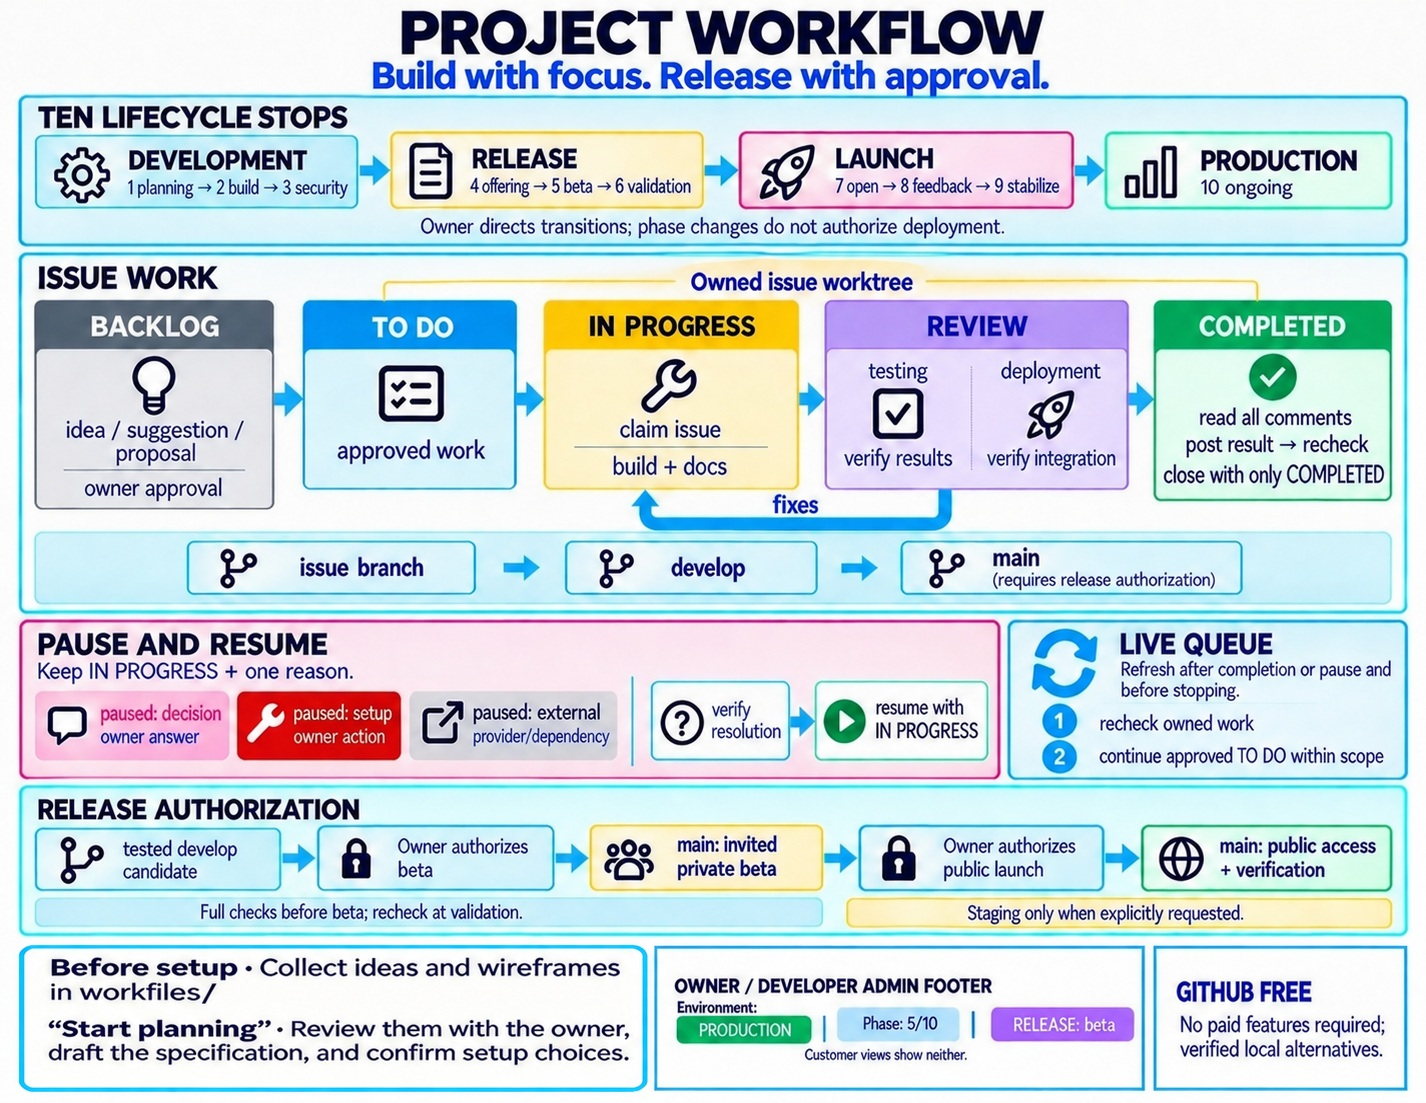
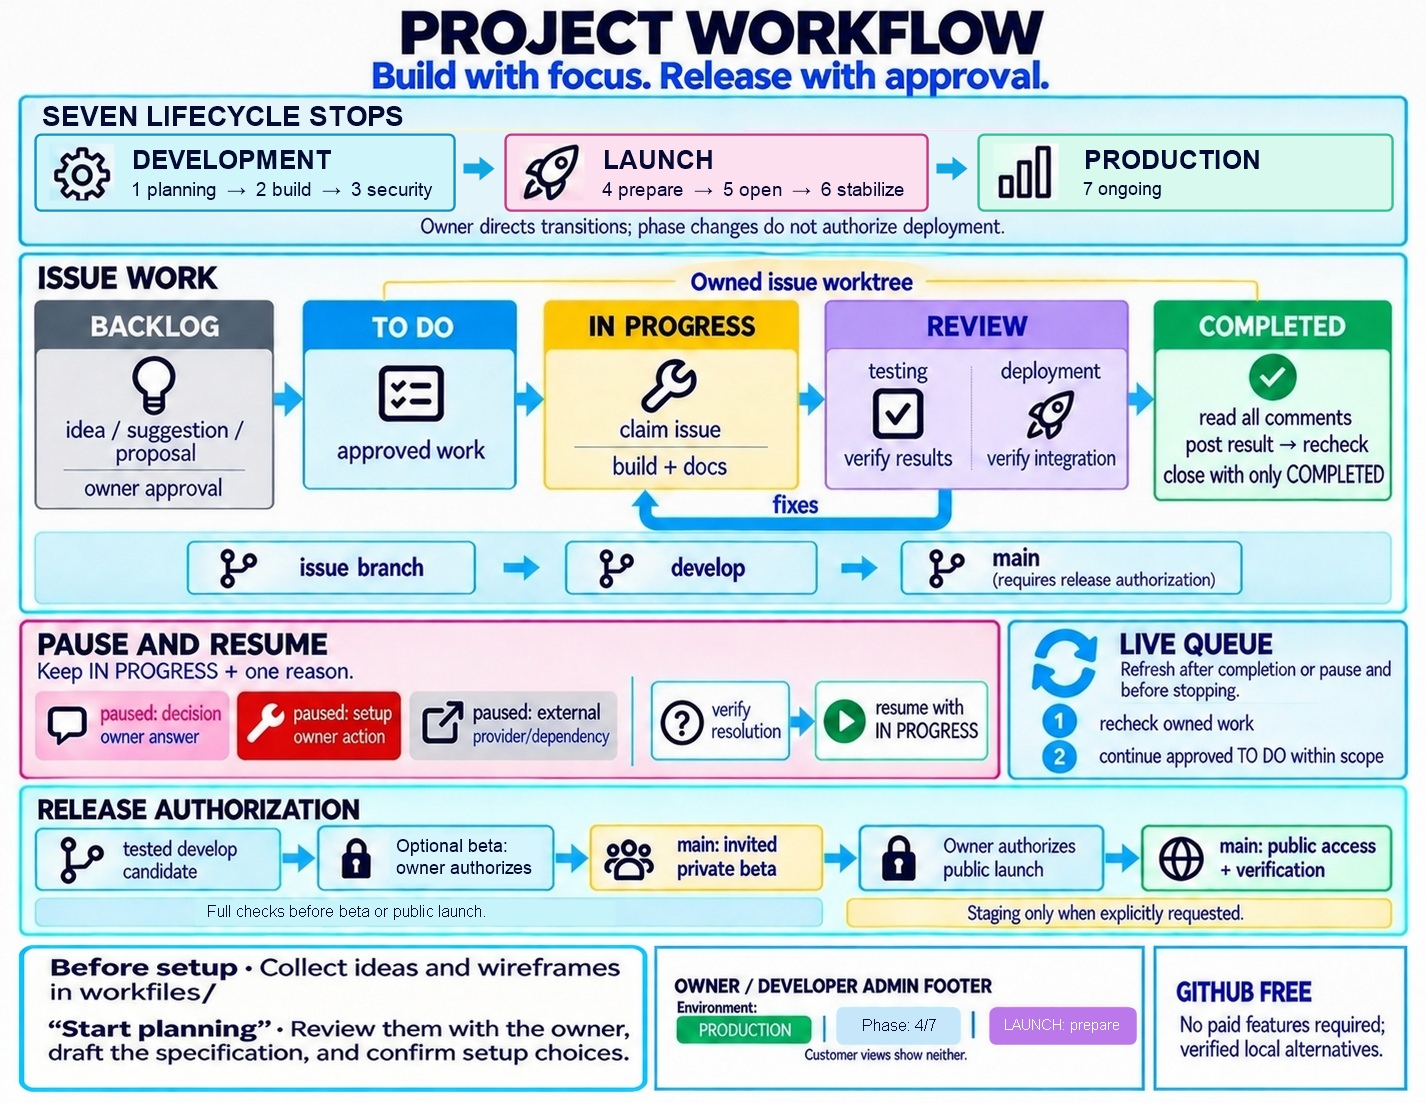
Show seven lifecycle stops in workflow graphic (#122)

diff --git a/README.md b/README.md
@@ -4,7 +4,7 @@ Project Blueprint gives each project a consistent start. After setup, the projec
 
 Initial setup always includes an owner interview, using the owner's private standing preferences and simpler defaults for small projects, optional Monid and recorded maintenance/reboot choices. Establish the [approved brand foundation](template/design/README.md#brand-foundation-and-settings) before styled UI; each application provides a Brand Guidelines settings page, reusing existing identity and tools. Verify [weekly Blueprint checking and the daily updater](template/standards/updates.md#periodic-blueprint-maintenance) during setup.
 
-![Before setup, collect ideas and wireframes in workfiles/. When the owner says “start planning,” review them together, draft the specification, and confirm setup choices. Application workflow with ten stops: DEVELOPMENT planning, build and security; RELEASE offering, beta and validation; LAUNCH open, feedback and stabilize; PRODUCTION ongoing. Board statuses: dark gray BACKLOG, blue TO DO, yellow IN PROGRESS, lavender REVIEW with testing and deployment, green COMPLETED. Owned issue worktrees follow issue branch to develop to authorized main. Paused work stays IN PROGRESS with pink decision, red setup or silver external reason. Refresh the live queue after completion or pause and before stopping. Explicit authorization precedes private beta and public launch. Owner/developer admin footer shows environment and numbered phase; customer views show neither. GitHub Free requires no paid features](assets/project-workflow-landscape.jpg)
+![Before setup, collect ideas and wireframes in workfiles/. When the owner says “start planning,” review them together, draft the specification, and confirm setup choices. Application workflow with seven stops: DEVELOPMENT planning, build and security; LAUNCH prepare, open and stabilize; PRODUCTION ongoing. Board statuses: dark gray BACKLOG, blue TO DO, yellow IN PROGRESS, lavender REVIEW with testing and deployment, green COMPLETED. Owned issue worktrees follow issue branch to develop to authorized main. Paused work stays IN PROGRESS with pink decision, red setup or silver external reason. Refresh the live queue after completion or pause and before stopping. Private beta is optional; separate authorization precedes it and public launch. Owner/developer admin footer shows environment and numbered phase; customer views show neither. GitHub Free requires no paid features](assets/project-workflow-landscape.jpg)
 
 Application workflow overview. [Open the full-size landscape JPEG](assets/project-workflow-landscape.jpg) (11 × 8.5 inches).
 
